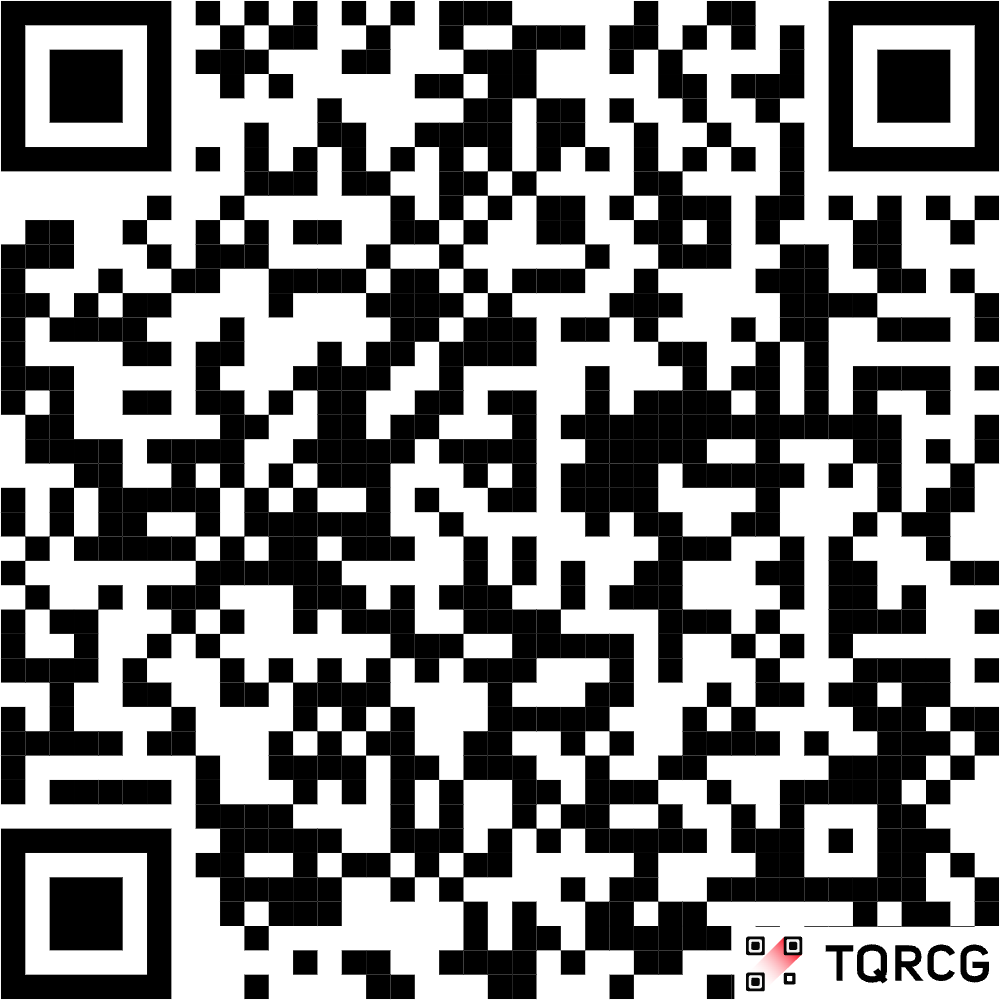
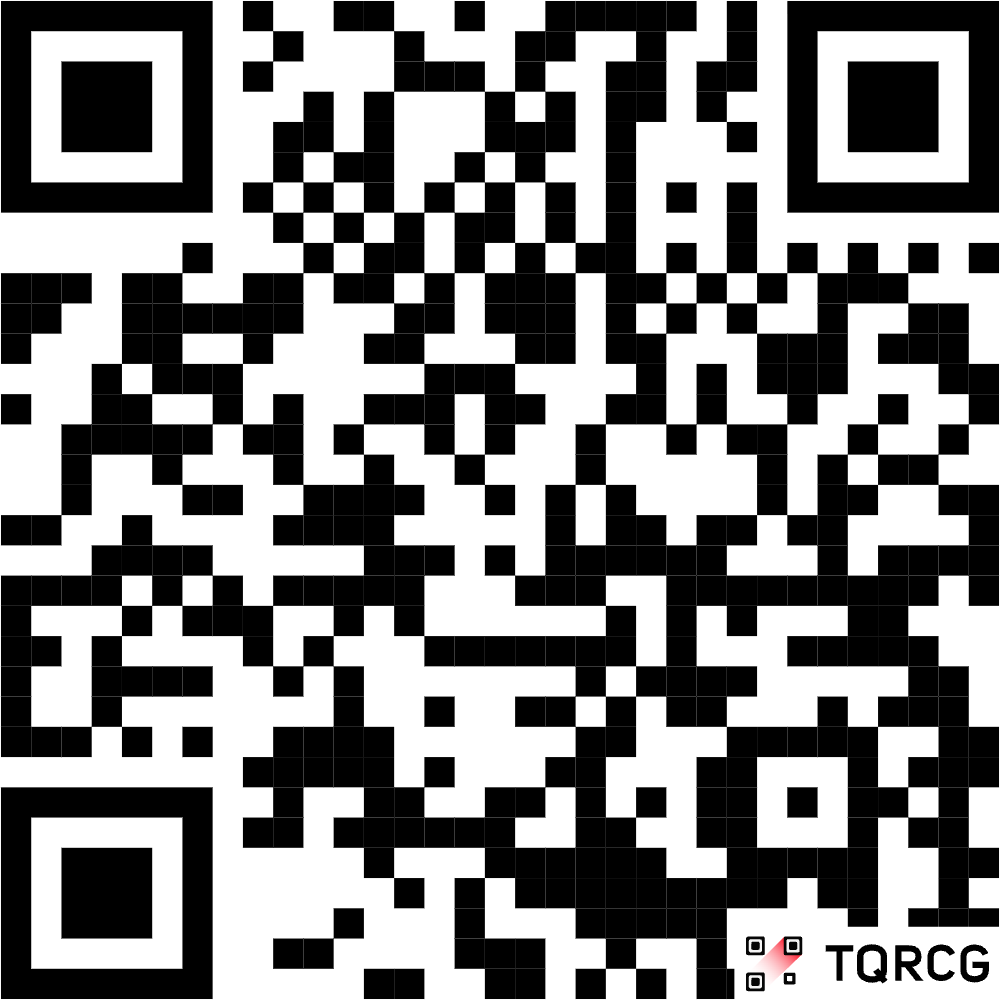
updated url

diff --git a/index.html b/index.html
@@ -17,7 +17,7 @@
 	])
     app.controller('ctrl', function ($scope) {
       $scope.title = "FandomDaily Dev Build";
-      $scope.iosLink = "itms-services://?action=download-manifest&amp;url=" + "https://www.qualdev.com/iosbeta/fandomdailydev/manifest.plist";
+      $scope.iosLink = "itms-services://?action=download-manifest&amp;url=" + "https://qdus-trials.github.io/manifest.plist";
       $scope.androidLink = "app.apk";
       $scope.iconLink = "icon.512x512.png";
 
